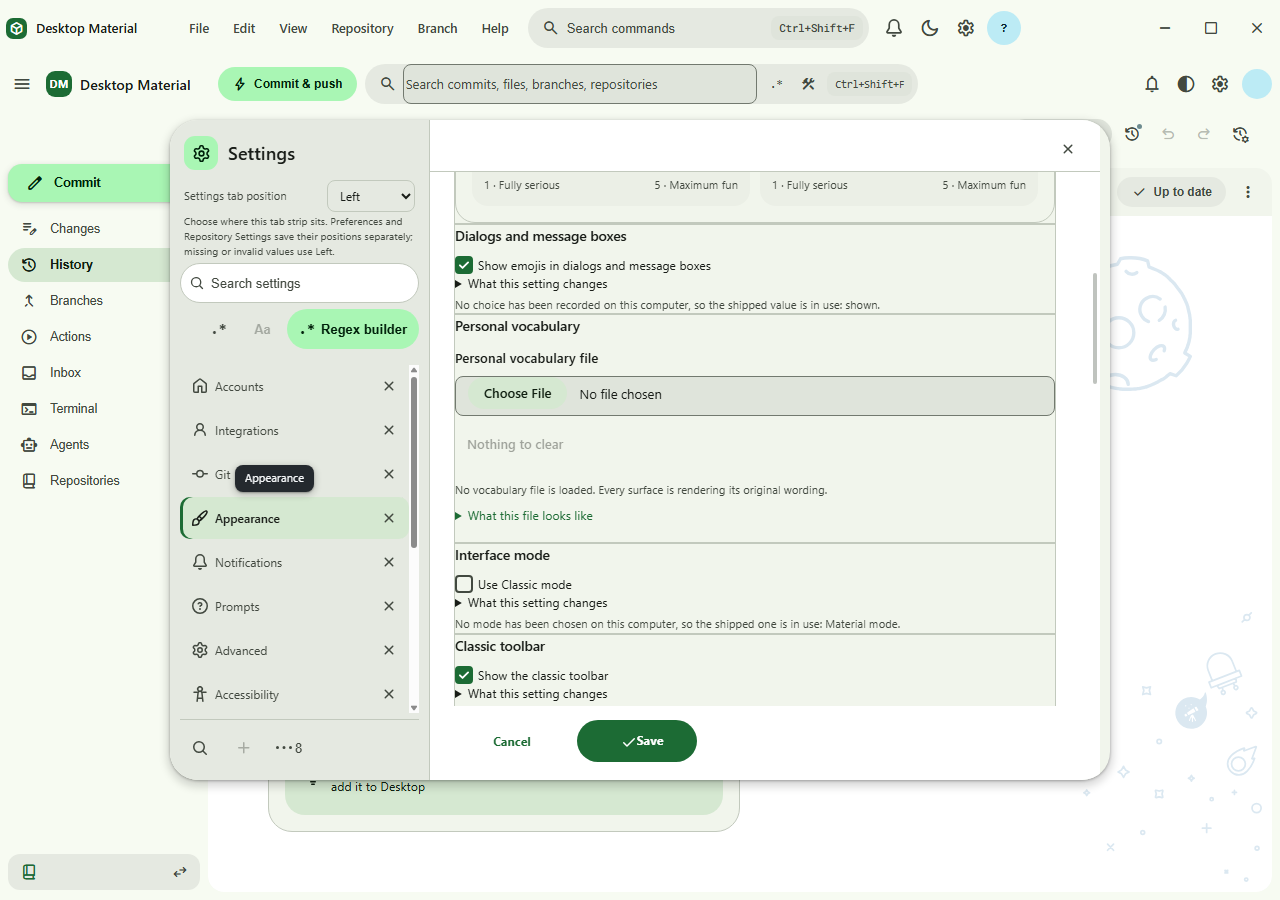
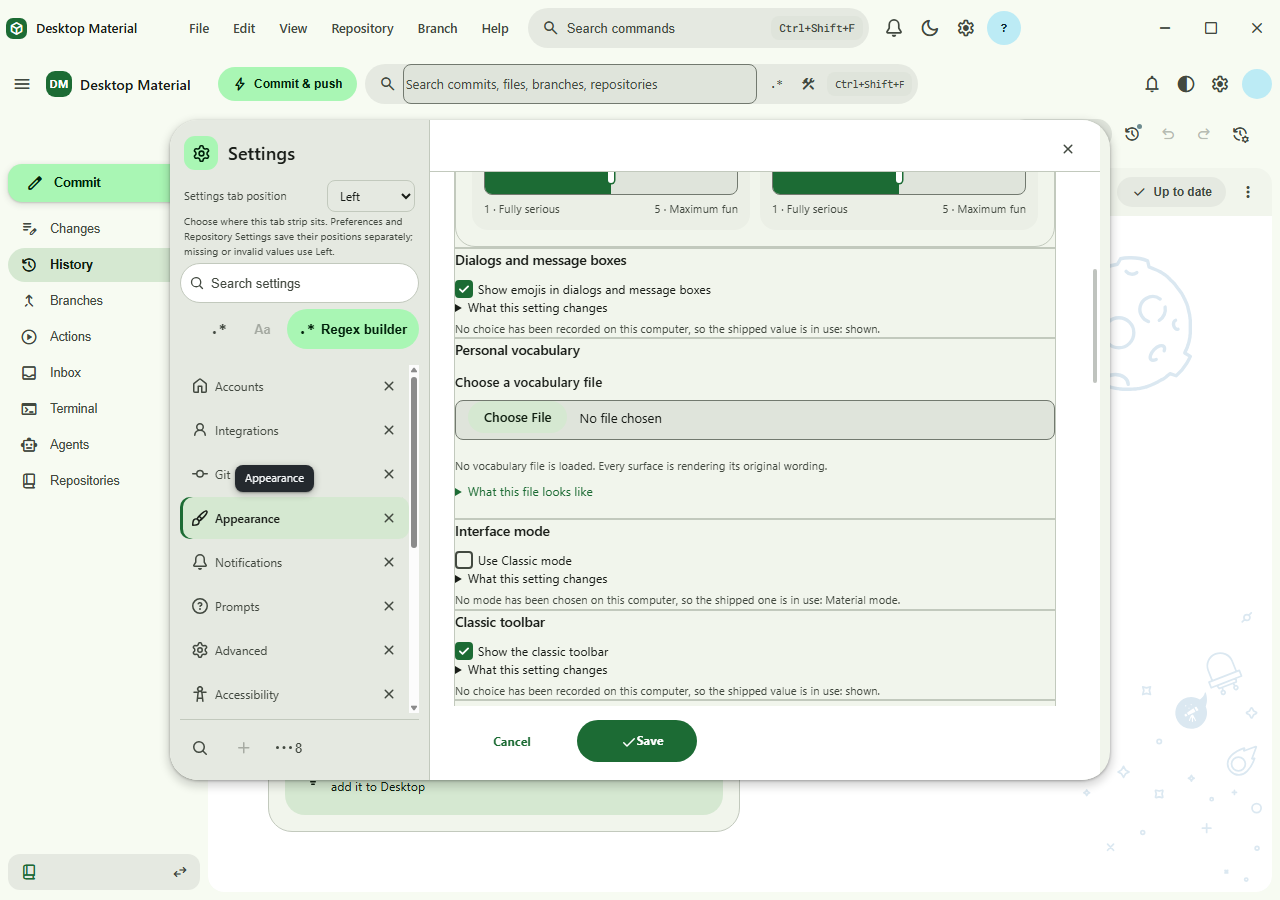
Stop Playwright's default dialog handling from killing the capture run
The `--tabs=N` path aborted the process outright with
`Page.handleJavaScriptDialog: No dialog is showing` — no failure line, no
console errors, nothing saying which step was in flight.

The dialog is the application behaving correctly. `profile-git.ts` installs a
`beforeunload` guard while a profile write is in flight, and the tab-seeding
path writes repositories into IndexedDB and then reloads the renderer straight
into it. Nothing is wrong with either half.

What is wrong is the default. With no handler registered, Playwright
auto-dismisses every dialog, and that auto-dismiss races Electron's teardown:
it calls `handleJavaScriptDialog` after the dialog has gone, rejects, and Node
turns the unhandled rejection into a process abort. So the harness accepts
deliberately and tolerates a dialog that has already closed, and a
driver-level rejection is now reported as an ordinary non-zero exit rather
than ending the run in silence.

Both are guarded, and both guards were broken on purpose first.

`--tabs`嗰條路成個 process 死咗，乜都唔講。 個 dialog 其實係 app 做啱嘢，係 Playwright 預設嗰個自動關法同 Electron 收工撞車。

Changed region(s): [[0.3438, 0.1867, 0.8125, 0.7778]]

diff --git a/app/test/unit/capture-harness-diagnostics-test.ts b/app/test/unit/capture-harness-diagnostics-test.ts
@@ -74,6 +74,32 @@ describe('the capture harness reports why a capture failed', () => {
     assert.match(harness, /the renderer logged no errors/)
   })
 
+  it('handles dialogs explicitly rather than letting the default race', () => {
+    // With no handler registered, Playwright auto-dismisses every dialog, and
+    // that auto-dismiss races Electron's teardown: it can call
+    // `Page.handleJavaScriptDialog` after the dialog has gone, reject with
+    // "No dialog is showing", and abort the process on an unhandled rejection.
+    //
+    // The dialog is the app behaving correctly — `profile-git.ts` guards a
+    // reload while a profile write is in flight — so the harness accepts it
+    // deliberately and swallows a rejection for a dialog that has already
+    // closed.
+    assert.match(harness, /page\.on\('dialog'/)
+    assert.match(
+      harness,
+      /dialog\.accept\(\)\.catch\(/,
+      'accepting must tolerate the dialog having already closed'
+    )
+  })
+
+  it('survives a driver-level unhandled rejection', () => {
+    // Node aborts the process on an unhandled rejection, so a race inside
+    // Playwright killed the run with no failure line, no console errors and no
+    // indication which step was in flight — indistinguishable from the
+    // application itself crashing.
+    assert.match(harness, /process\.on\('unhandledRejection'/)
+  })
+
   it('names the development-build cause rather than leaving it to be inferred', () => {
     // ERR_CONNECTION_REFUSED with no further explanation sends a reader looking
     // at the network, at a proxy, at the app's own HTTP clients — anywhere but

diff --git a/script/capture-app.js b/script/capture-app.js
@@ -1817,6 +1817,22 @@ async function captureApp(options) {
     page.on('pageerror', error => {
       consoleErrors.push(`pageerror: ${error.stack || error.message}`)
     })
+    // An explicit dialog handler, because the default is worse than none here.
+    //
+    // With no handler registered, Playwright auto-dismisses every dialog — and
+    // its auto-dismiss races Electron's own teardown, so it can call
+    // `Page.handleJavaScriptDialog` after the dialog has already gone and reject
+    // with "No dialog is showing". That rejection is unhandled and aborts the
+    // whole process.
+    //
+    // The dialog in question is the app doing its job: `profile-git.ts` installs
+    // a `beforeunload` guard while a profile write is in flight, and the
+    // `--tabs=N` path seeds repositories and then reloads the renderer straight
+    // into it. Accepting deliberately, and swallowing a rejection for a dialog
+    // that has already closed, keeps the race from ending the run.
+    page.on('dialog', dialog => {
+      dialog.accept().catch(() => undefined)
+    })
 
     await page.waitForLoadState('domcontentloaded')
 

diff --git a/docs/features/design-system/personal-vocabulary.md b/docs/features/design-system/personal-vocabulary.md
@@ -42,7 +42,7 @@ rendering its original wording*.
 The status line reports a **count**, never the terms. The terms are the private
 part; the number is not.
 
-![Settings → Appearance showing the Personal vocabulary section: a file picker reading "No file chosen", and beneath it "No vocabulary file is loaded. Every surface is rendering its original wording." A collapsed "What this file looks like" disclosure sits below.](https://raw.githubusercontent.com/Ding-Ding-Projects/desktop-material/main/docs/assets/screenshots/personal-vocabulary.png)
+![Settings → Appearance showing the Personal vocabulary section: a "Choose a vocabulary file" picker reading "No file chosen", and beneath it "No vocabulary file is loaded. Every surface is rendering its original wording." A collapsed "What this file looks like" disclosure sits below. No clear button is shown, because there is nothing to clear.](https://raw.githubusercontent.com/Ding-Ding-Projects/desktop-material/main/docs/assets/screenshots/personal-vocabulary.png)
 
 Captured from the built application through `script/capture-app.js`. This is the
 state before any file exists, which is the state the control has to be good at:
